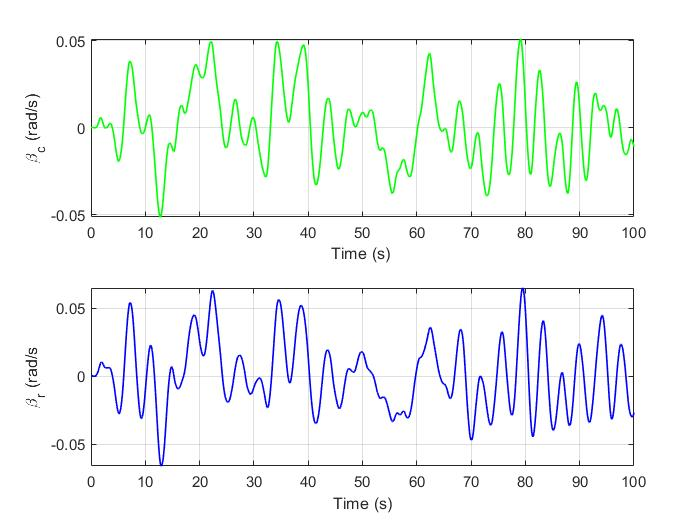
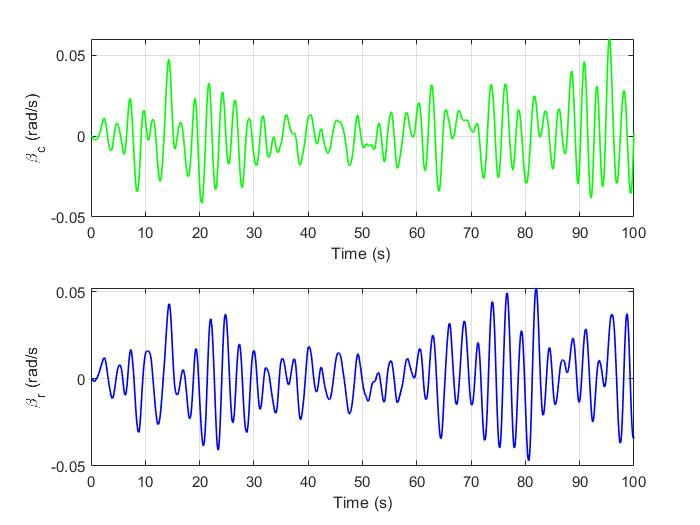
update

diff --git a/Ch_3_spectral_analysis.m b/Ch_3_spectral_analysis.m
@@ -1,6 +1,6 @@
 
 w = logspace(-2,2,300);
-
+%% analystical
 % controlled model
 temp = bode(A2,B,C(1,:),D(1,:),5,w); Sbeta_c  = temp.*temp;
 temp = bode(A2,B,C(2,:),D(2,:),5,w); Sphi_c   = temp.*temp;
@@ -32,7 +32,7 @@ Y_r = lsim(Ar,Br,Cr,Dr,u,t);
 beta_r = Y_r(:,1);
 rbV_r= Y_r(:,2);
 % COMPUTE PERIODOGRAM AND ESTIMATE PSD
-% PERIODOGRAM
+%% using fft
 BETA_c  = dt*fft(beta_c);
 Phi_c   = dt*fft(phi_c);
 Pbv_c     = dt*fft(pbV_c);
@@ -61,22 +61,35 @@ Periodograms_r = [beta_psd_r rbv_psd_r ay_psd_r];
 % DEFINE FREQUENCY VECTOR
 fs = 1/dt;     % sample frequency
 omega = 2*pi*fs*(0:(N/2)-1)/N;
+%% using pwelch
 
+pBETA_c  = pwelch(beta_c);
+pPhi_c   = pwelch(phi_c);
+pPbv_c     = pwelch(pbV_c);
+pRbv_c     = pwelch(rbV_c);
+pay_c = pwelch(a_y);
+
+%  PSD ESTIMATE
+% pbeta_psd_c  = ( pBETA_c.*conj(pBETA_c));
+% pphi_psd_c  = (  pPhi_c.*conj(pPhi_c));
+% ppbv_psd_c     = (    pPbv_c.*conj(pPbv_c));
+% prbv_psd_c= (    pRbv_c.*conj(pRbv_c));
+% pay_psd_c = (    pay_c.*conj(pay_c));
 figure(1)
-subplot(2,1,1); loglog(w,Sxx(:,1),'--',omega,beta_psd_c (1:N/2)); 
+subplot(2,1,1); loglog(w,Sxx(:,1),'--',omega,beta_psd_c (1:N/2),'-',omega(1:257),pBETA_c) 
 axis(10.^[-2 2 -12 -2]); xlabel('omega [rad/s]'); ylabel('\beta PSD_c');
-subplot(2,1,2); loglog(w,Sxx_r(:,1),'--',omega,beta_psd_r(1:N/2));
-axis(10.^[-2 2 -12 -2]); xlabel('omega [rad/s]'); ylabel('\beta PSD_c')
+% subplot(2,1,2); loglog(w,Sxx_r(:,1),'--',omega,beta_psd_r(1:N/2),beta_r(1:N/2))
+% axis(10.^[-2 2 -12 -2]); xlabel('omega [rad/s]'); ylabel('\beta PSD_c')
 
-figure(2)
-subplot(2,1,1); loglog(w,Sxx(:,2),'--',omega,phi_psd_c(1:N/2));
-axis(10.^[-2 2 -12 -2]); xlabel('omega [rad/s]'); ylabel('\phi PSD_c')
-subplot(2,1,2); loglog(w,Sxx(:,3),'--',omega,pbv_psd_c(1:N/2));
-axis(10.^[-2 2 -14 -2]); xlabel('omega [rad/s]'); ylabel('pb/V PSD_c')
-
-figure(3)
-subplot(2,1,1); loglog(w,Sxx(:,4),'--',omega,rbv_psd_c(1:N/2));
-axis(10.^[-2 2 -14 -2]); xlabel('omega [rad/s]'); ylabel('rb/V PSD_c')
-subplot(2,1,2); loglog(w,Sxx_r(:,2),'--',omega,rbv_psd_r(1:N/2));
-axis(10.^[-2 2 -14 -2]); xlabel('omega [rad/s]'); ylabel('rb/V PSD_r')
-
+% figure(2)
+% subplot(2,1,1); loglog(w,Sxx(:,2),'--',omega,phi_psd_c(1:N/2));
+% axis(10.^[-2 2 -12 -2]); xlabel('omega [rad/s]'); ylabel('\phi PSD_c')
+% subplot(2,1,2); loglog(w,Sxx(:,3),'--',omega,pbv_psd_c(1:N/2));
+% axis(10.^[-2 2 -14 -2]); xlabel('omega [rad/s]'); ylabel('pb/V PSD_c')
+% 
+% figure(3)
+% subplot(2,1,1); loglog(w,Sxx(:,4),'--',omega,rbv_psd_c(1:N/2));
+% axis(10.^[-2 2 -14 -2]); xlabel('omega [rad/s]'); ylabel('rb/V PSD_c')
+% subplot(2,1,2); loglog(w,Sxx_r(:,2),'--',omega,rbv_psd_r(1:N/2));
+% axis(10.^[-2 2 -14 -2]); xlabel('omega [rad/s]'); ylabel('rb/V PSD_r')
+% 

diff --git a/Ch_1_Stability_analysis.m b/Ch_1_Stability_analysis.m
@@ -20,12 +20,12 @@
 % 
 % Data for Cessna Citation Ce-500, landing (1)
 
-% AIRCRAFT- AND FLIGHT CONDITION 'LANDING'.
-V   = 59.9;
+% AIRCRAFT- AND FLIGHT CONDITION 'cruise'.
+V   = 121.3;
 S   = 24.2;
 b   = 13.36;
-mub = 15.5;
-KX2 = 0.012;
+mub = 32;
+KX2 = 0.013;
 KZ2 = 0.037;
 KXZ = 0.002;
 CL  = 1.1360;
@@ -45,11 +45,11 @@ tau1 = 0.0991;     tau2 = 0.5545;     tau3 = 0.4159;
 tau4 = 0.0600;     tau5 = 0.3294;     tau6 = 0.2243;
 
 % AIRCRAFT ASYMMETRIC AERODYNAMIC DERIVATIVES 
-CYb  =-0.9896;     Clb  =-0.0772;     Cnb  = 0.1638;
-CYp  =-0.0870;     Clp  =-0.3444;     Cnp  =-0.0108;
-CYr  = 0.4300;     Clr  = 0.2800;     Cnr  =-0.1930;
-CYda = 0.0000;     Clda =-0.2349;     Cnda = 0.0286;
-CYdr = 0.3037;     Cldr = 0.0286;     Cndr =-0.1261;
+CYb  =-1.3250;     Clb  =-0.1070;     Cnb  = 0.1835;
+CYp  =-0.1320;     Clp  =-0.3684;     Cnp  =-0.0035;
+CYr  = 0.4300;     Clr  = 0.1750;     Cnr  =-0.1930;
+CYda = 0.0000;     Clda =-0.2292;     Cnda = 0.0071;
+CYdr = 0.3037;     Cldr = 0.0446;     Cndr =-0.1261;
  
                    Clpw = 0.8*Clp;    Cnpw = 0.9*Cnp;
                    Clrw = 0.7*Clr;    Cnrw = 0.2*Cnr;
@@ -123,7 +123,7 @@ B = [0   ydr 0    0    0;
  C = eye(10,10);
  D = zeros(10,5);
 
-eig(A)
+eig_A = eig(A)
 sys_uncontrolled = ss(A,B,C,D);
 figure(1)
 pzmap(sys_uncontrolled)
@@ -148,7 +148,7 @@ Br = [0  0   0    0    0;
      0   0   0    0    bbg2];
 Cr = eye (8,8);
 Dr = zeros(8,5); 
-eig(Ar)
+eig_Ar = eig(Ar)
 sys_reduced_c = ss(Ar,Br,Cr,Dr);
 figure(2)
 pzmap(sys_reduced_c)
@@ -157,8 +157,9 @@ Kphi = -0.2;
 K    = [0 Kphi 0 0  0 0  0 0  0 0];
 A2   = A-B(:,1)*K;
 
-eig(A2)
+eig_A2 = eig(A2)
 sys_controlled = ss(A2,B,C,D);
 figure(3)
 pzmap(sys_controlled)
 grid on
+

diff --git a/Ch_2_time_response.m b/Ch_2_time_response.m
@@ -96,3 +96,4 @@ plot(t,ytr,'b','LineWidth',1)
 xlabel('Time (s)')
 ylabel('y_r ')
 grid on
+
